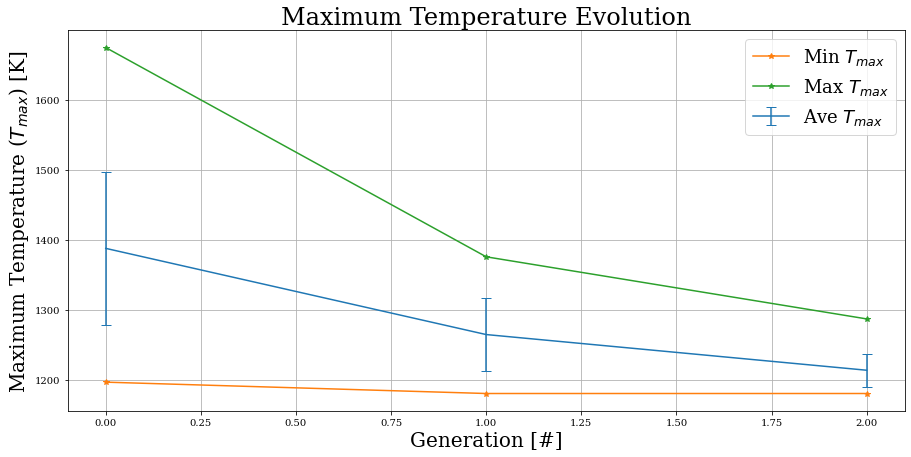
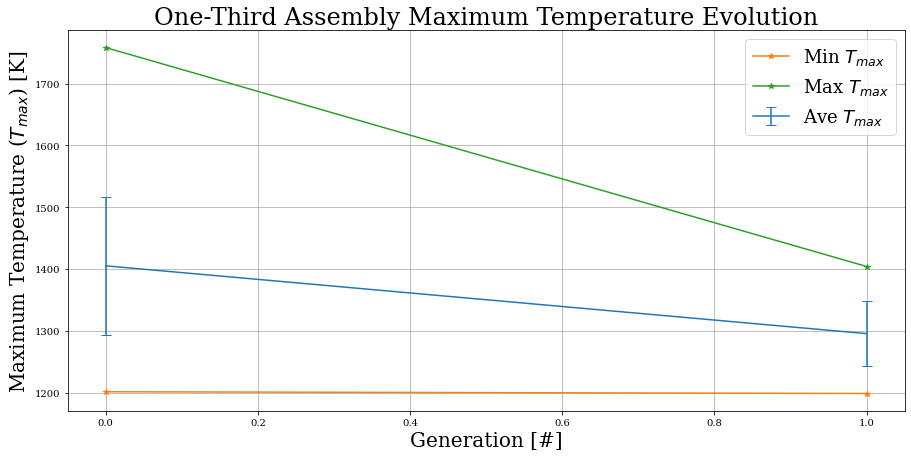
more writing

diff --git a/docs/ahtr_rollo_assem.tex b/docs/ahtr_rollo_assem.tex
@@ -316,10 +316,10 @@ Table \ref{tab:simulationa1b} shows simulation a-1b's optimization problem param
     & $\rho_{TRISO}(\vec{r})$: $0<b<\frac{\pi}{2}$, $0<e<\frac{\pi}{2}$\\
     & $\rho_{TRISO}(\vec{r})$: $0<c<2\pi$, $0<f<2\pi$\\
     \hline
-    \textbf{Constraints} & $k_{eff} \geq 1.0$\\ 
-    & $PF_{total} = 0.04 $\\ 
+    \textbf{Constraints} & $k_{eff} \geq 1.38$\\ 
+    & $PF_{total} = 0.06 $\\ 
     \hline 
-    \textbf{Genetic Algorithm Parameters} & Population size: 64 \\
+    \textbf{Genetic Algorithm Parameters} & Population size: 128 \\
     & Generations: 3 \\
     \hline
     \end{tabular}
@@ -379,12 +379,14 @@ assembly model with the most-minimized $T_{max}$.
     Input parameters varied: \gls{TRISO} packing fraction distribution 
     ($\rho_{TRISO}(\vec{r})$).}
 \end{figure}
+% TODO: Update this ^ and below w 3rd gen
 
 Figure \ref{fig:assem-obj-1-temp-evol} shows that the minimum and average one-third 
 assembly's $T_{max}$ converged to approximately 1200 K.
 In Figure \ref{fig:assem-obj-1-temp-final}, the one-third assembly model with the 
-most-minimized $T_{max}$ has a $T_{max}=1180.3$K and an almost constant TRISO packing 
-fraction distribution.
+most-minimized $T_{max}$ has a $T_{max}=1198.46$K and an almost constant TRISO packing 
+fraction distribution with packing fraction standard deviation of $0.004$ across the 
+one-third assembly. 
 % TODO: update with new results
 Section \ref{sec:assem-discussion-temp} discusses and explains simulation a-1b's 
 most-minimized $T_{max}$ almost constant TRISO distribution. 
